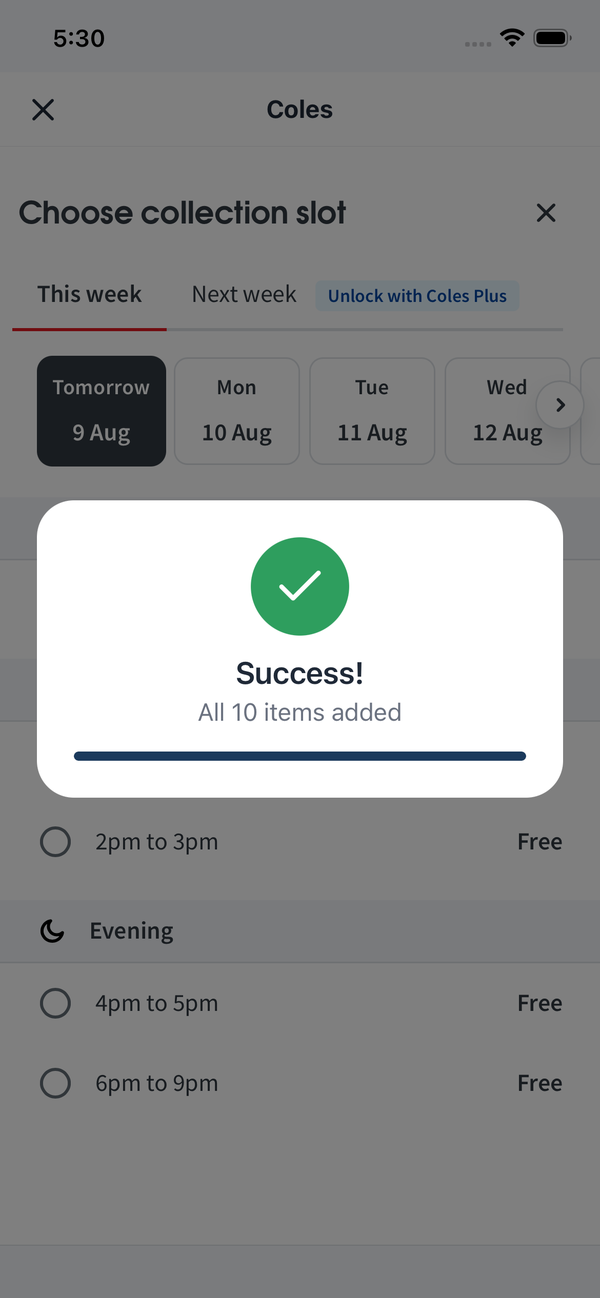
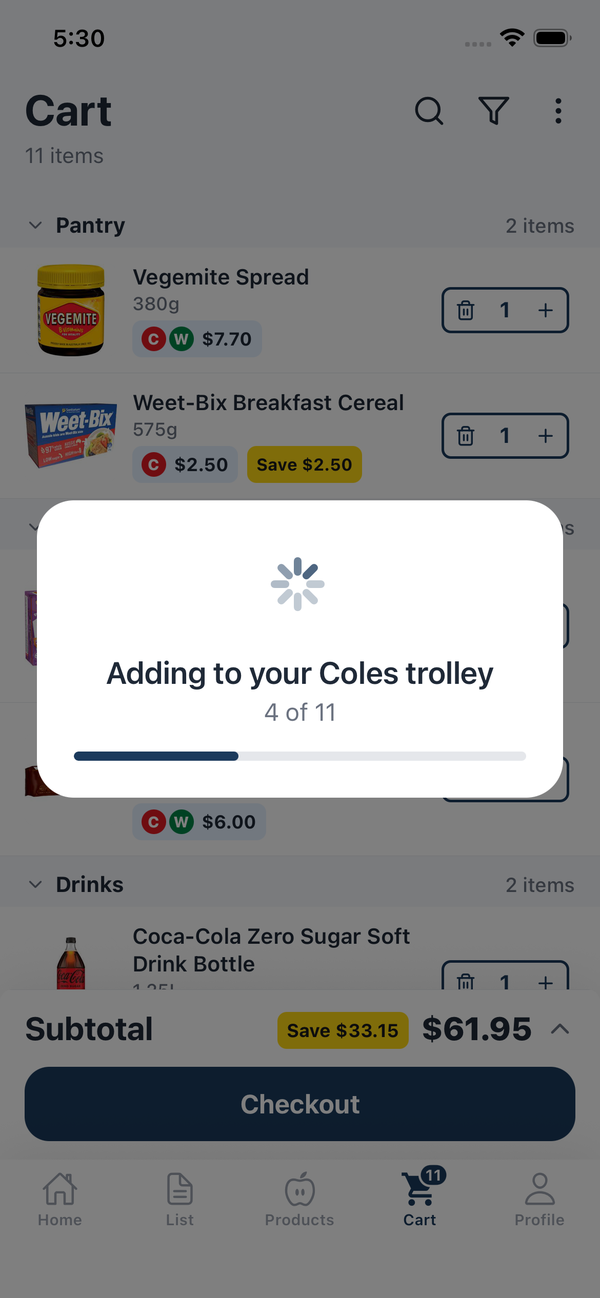
Replace the Quick Cart capture with the in-app transfer
The previous shot was mostly Coles' own collection-slot UI with a small
StockUp modal over it; a cold visitor had to work out what they were
looking at. The retake is StockUp's own Cart with the transfer dialog
running - 'Adding to your Coles trolley, 4 of 11' - so the product is
doing the visible work. Lossless WebP, 111KB.

Chip and alt text follow the new screen.

diff --git a/index.html b/index.html
@@ -430,9 +430,9 @@
           <p>Send your Cart straight into your real Coles or Woolworths trolley - every item at the store where it's cheaper. You review and check out as normal, in your own account. StockUp never sees your password and never places orders.</p>
           <div class="fork-phone-wrapper">
             <div class="phone">
-              <img src="/assets/quick-cart-v31.webp" alt="Quick Cart confirmation reading All 10 items added, over the Coles collection-slot screen" width="600" height="1298" loading="lazy">
+              <img src="/assets/quick-cart-v31.webp" alt="StockUp Cart with a Quick Cart progress dialog reading Adding to your Coles trolley, 4 of 11" width="600" height="1298" loading="lazy">
             </div>
-            <div class="floating-el bubble-green" aria-hidden="true">✅ All 10 items added</div>
+            <div class="floating-el bubble-accent" aria-hidden="true">🛒 Adding 11 items to Coles</div>
           </div>
         </div>
       </div>
